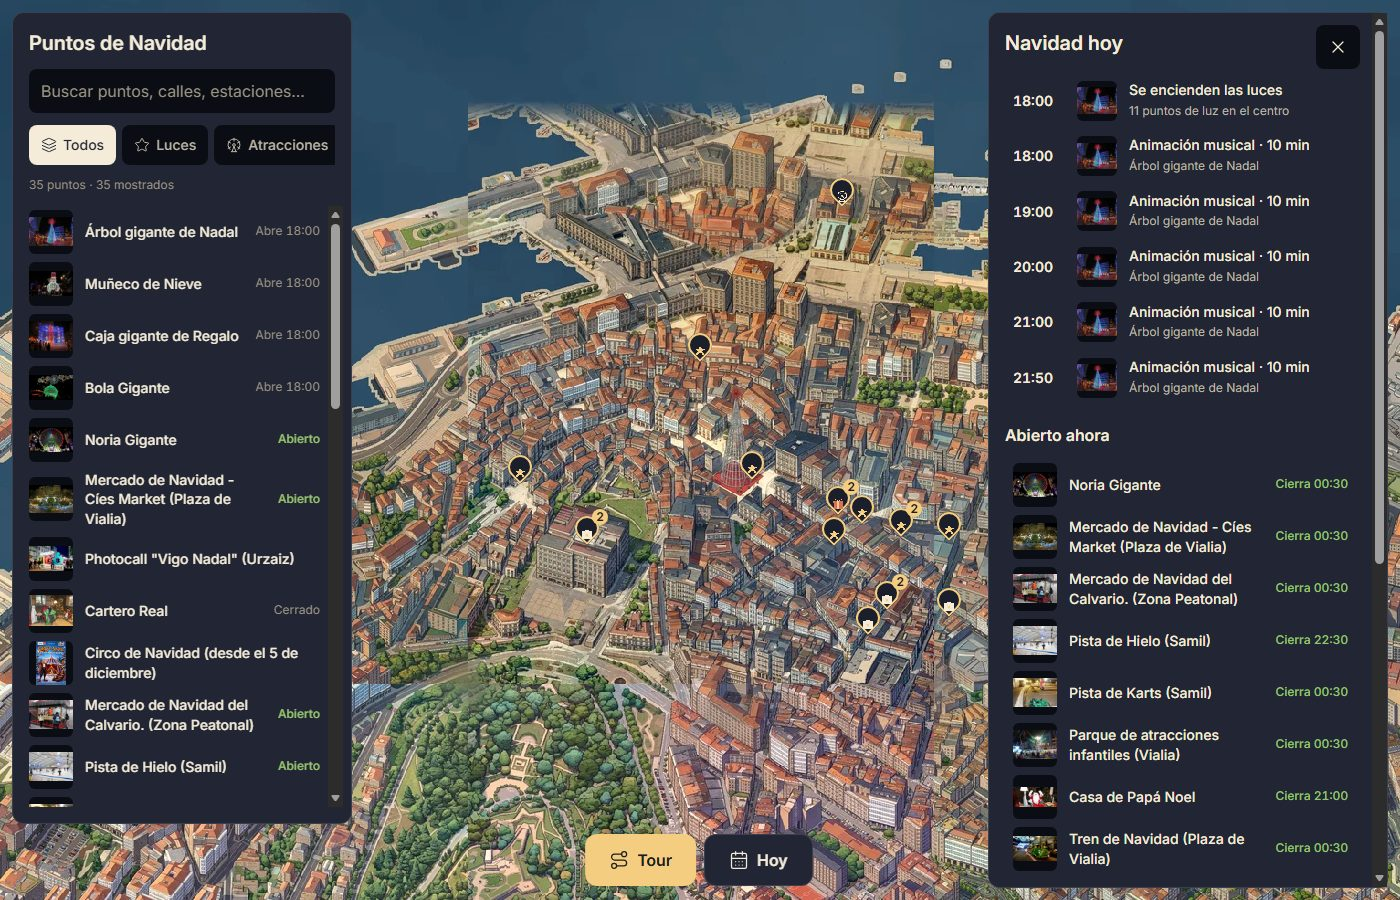
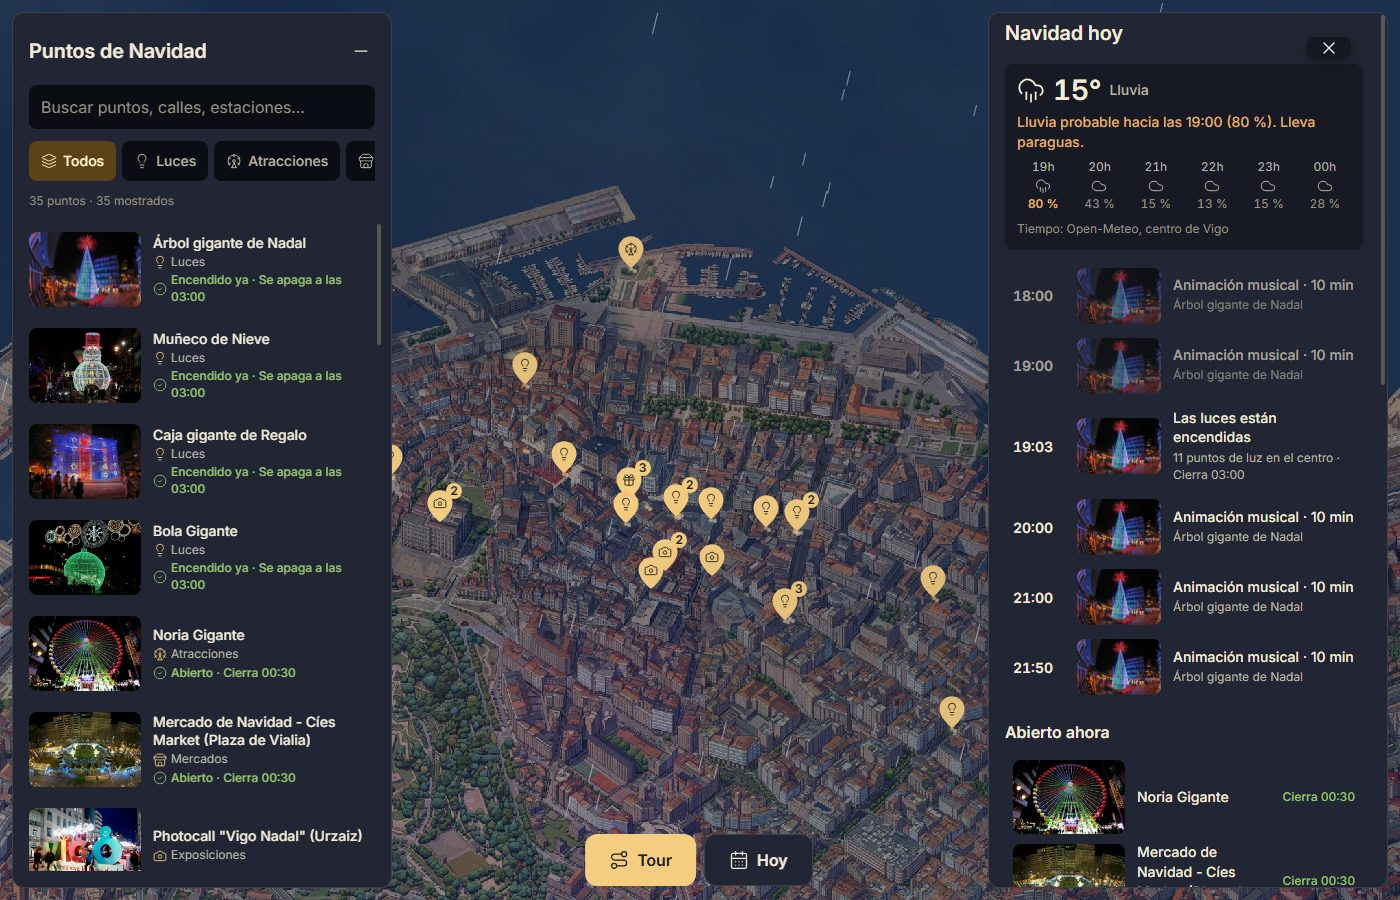
docs(readme): portada nueva, equipo y capturas actuales
- Banner con el mapa dibujado y el título (docs/img/banner.jpg), enlaces y badges.
- Equipo: Miguel Fernández de la Cigoña París, Jose Estévez Saborido y Alejandro
  Cancelas Chapela.
- Capturas nuevas: tour con el paseo, ficha en móvil, Navidad hoy y el mapa de noche.
- «Qué hace la web» al día: Vialia, seguimiento en ruta, día/noche/clima e historia.

diff --git a/README.md b/README.md
@@ -1,20 +1,45 @@
-<img src="web/favicon.svg" width="32" height="32" alt=""> TinyVigo
+<p align="center">
+  <img src="docs/img/banner.jpg" alt="TinyVigo: la Navidad de Vigo en un mapa dibujado a mano" width="100%">
+</p>
 
-**Web en vivo: [navihack.vercel.app](https://navihack.vercel.app)** · [probar la demo](https://navihack.vercel.app/demo/)
+<p align="center"><b>Web en vivo: <a href="https://navihack.vercel.app">navihack.vercel.app</a></b> · <a href="https://navihack.vercel.app/demo/">probar la demo</a></p>
 
-![TinyVigo](docs/img/web-desktop-1400.png)
+<p align="center">
+  <a href="https://navihack.vercel.app"><b>Web</b></a> ·
+  <a href="https://navihack.vercel.app/demo/"><b>Demo</b></a> ·
+  <a href="#qué-hace-la-web">Qué hace</a> ·
+  <a href="#arrancar-en-local">Arrancar</a> ·
+  <a href="#equipo">Equipo</a>
+</p>
 
-> Mapa isométrico pixel art del centro de Vigo, con la Navidad encima: puntos con
-> su horario real, eventos del día, rutas a pie, autobuses y trenes, y postales
-> pixel art a partir de una foto propia. Mobile-first, una sola ciudad, un solo
-> mapa dibujado una vez.
+<p align="center">
+  <img alt="CI" src="https://github.com/cacelass/NaviHack/actions/workflows/ci.yml/badge.svg">
+  <img alt="Python" src="https://img.shields.io/badge/Python-3.12+-3776ab?logo=python&logoColor=white">
+  <img alt="Idiomas" src="https://img.shields.io/badge/idiomas-gl%20·%20es%20·%20en-f4cd80">
+  <img alt="Datos" src="https://img.shields.io/badge/datos-Concello%20de%20Vigo%20·%20IGN%20·%20OSM-3d6a96">
+</p>
+
+**TinyVigo** es la Navidad del centro de Vigo en un mapa isométrico pintado: los 35 puntos
+del programa oficial con su horario real («Encendido ya», «Se apaga a las 03:00»), un paseo a
+pie a la medida de tu tiempo que te cuenta parada a parada lo que vas a ver, y la ciudad en
+vivo alrededor: parkings libres, buses, trenes y el tiempo. Hecho en un día para NaviHack 2026.
 
 La landing está en [`landing/`](landing/); se publica con `landing/deploy.sh`, que copia `web/` como `demo/`.
 
-**Para quién:** personas que pasean por el centro de Vigo con el móvil, de día y
-sobre todo por la tarde-noche (vecinos y turistas), y quien planifica una visita
-corta y quiere saber qué le cabe en 1–3 horas. Uso con una mano, a la
-intemperie, de noche.
+**Para quién:** quien pasea por el centro con el móvil, sobre todo al caer la tarde, vecinos y
+turistas, y quien tiene una o dos horas y quiere saber qué le cabe.
+
+<p align="center">
+  <img src="docs/img/web-tour-1400.jpg" alt="Tour a pie dibujado sobre el mapa, con el paseo parada a parada" width="100%">
+</p>
+
+## Equipo
+
+| | |
+|---|---|
+| **Miguel Fernández de la Cigoña París** | [@miguelfdezparis](https://github.com/miguelfdezparis) |
+| **Jose Estévez Saborido** | [@JoseEstevez520](https://github.com/JoseEstevez520) |
+| **Alejandro Cancelas Chapela** | [@cacelass](https://github.com/cacelass) |
 
 ## Arrancar en local
 
@@ -44,10 +69,8 @@ make check           # lint + typecheck + test + arnés
 
 ## Qué hace la web
 
-![Tour a pie con el paseo parada a parada](docs/img/web-tour-1400.jpg)
-
-- **Mapa dibujado del centro** (isométrico, OpenSeadragon) con los 35 puntos de Navidad del
-  Concello: pin con icono por tipo, verde si está abierto ahora, agrupados si se solapan.
+- **Mapa dibujado del centro y Vialia** (isométrico, OpenSeadragon) con los 35 puntos de Navidad
+  del Concello: pin con icono por tipo, agrupados si se solapan.
 - **Ficha de cada punto:** foto entera (en grande al tocarla), «Abierto · Cierra 00:30» o
   «Cerrado · Abre 18:00» calculado con el programa oficial 2026-27, horario, dirección con
   mini-mapa, parking más cercano con plazas libres en vivo y próximos buses programados.
@@ -61,8 +84,15 @@ make check           # lint + typecheck + test + arnés
 - **Búsqueda** de puntos, eventos, estaciones y 1921 calles, sin tildes y con erratas.
 - **Ajustes** en un solo botón: idioma (gl/es/en, por el navegador), vista, tema y créditos.
 - **Compartir:** el enlace guarda el punto (`#p=...`) o el tour (`#tour=60-20`).
+- **Seguimiento en ruta:** «Seguirme» sigue tu posición por el tour, pinta lo ya andado y dice
+  «Te quedan 39 min · Próxima: …»; sin GPS, «Simular paseo».
+- **Día, noche y clima:** la noche entra con la puesta de sol real y enciende las luces; lluvia,
+  nubes y niebla según Open-Meteo, o a mano con el botón de hora y en Ajustes.
+- **Historia** de cada punto con el texto del Concello, y la ficha con la foto en grande.
 
-<p><img src="docs/img/web-ficha-movil-390.jpg" width="260" alt="Ficha en el móvil"> <img src="docs/img/web-hoy-1400.jpg" width="520" alt="Navidad hoy"></p>
+<p align="center"><img src="docs/img/web-ficha-movil-390.jpg" width="250" alt="Ficha en el móvil"> <img src="docs/img/web-hoy-1400.jpg" width="560" alt="Navidad hoy"></p>
+
+<p align="center"><img src="docs/img/web-noche-1600.jpg" width="100%" alt="El mapa de noche con las luces de Navidad"></p>
 
 El servidor de `make website` es `scripts/serve_web.mjs` (Node, sin dependencias): el
 `http.server` de Python en Windows deja respuestas a medias con varias conexiones y la
@@ -223,3 +253,7 @@ variantes, paleta, tipografía y aplicaciones) en
 
 Código bajo la licencia del repositorio (ver [`LICENSE`](LICENSE)). Los datos
 tienen sus propias licencias (ver tabla de fuentes y `licencias.md`).
+
+---
+
+<p align="center">Hecho en Vigo por Miguel Fernández de la Cigoña París, Jose Estévez Saborido y Alejandro Cancelas Chapela · NaviHack 2026</p>
